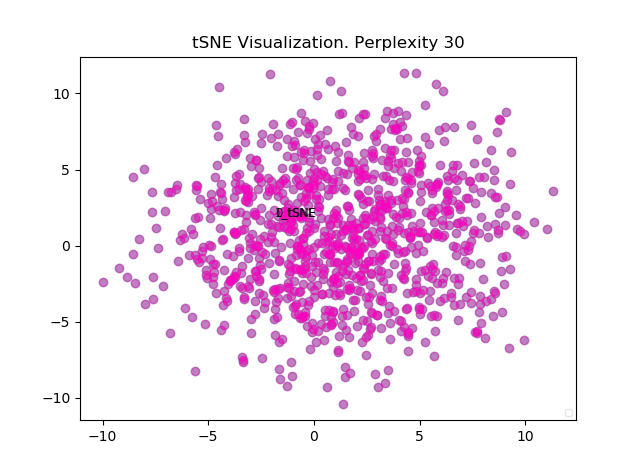
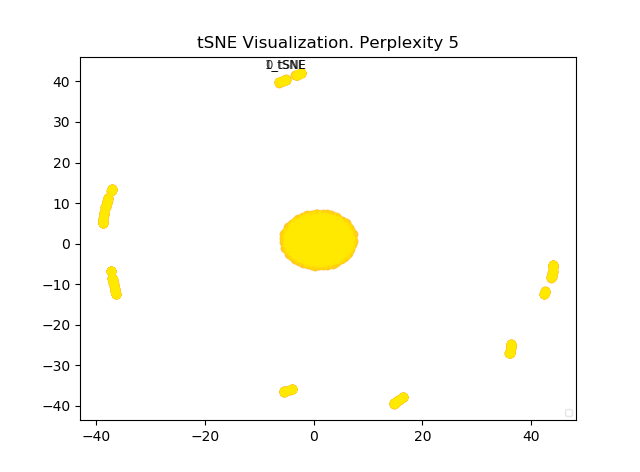
Fix TSNE issues

diff --git a/model_vis.py b/model_vis.py
@@ -13,8 +13,8 @@ import matplotlib.pyplot as plt
 from sequence_helpers import get_alignments, get_vocab, class_to_onehot, split_alignments
 from sklearn.model_selection import train_test_split
 from keras.models import model_from_json, Model
-from sklearn.manifold import TSNE
-#from MulticoreTSNE import MulticoreTSNE as TSNE
+#from sklearn.manifold import TSNE
+from MulticoreTSNE import MulticoreTSNE as TSNE
 
 word_length = 8
 vec_length = 4
@@ -198,7 +198,7 @@ conv_embds = model.layers[2].get_weights()[0]
 print(conv_embds)
 
 
-def plot_words(data, start, stop, step, num_classes, perplexity):
+def plot_words(data, perplexity):
     center_points = np.zeros([num_classes, 2])
 
     color_map_name = 'gist_rainbow'
@@ -208,7 +208,7 @@ def plot_words(data, start, stop, step, num_classes, perplexity):
     plt.hold(True)
     for cc in range(num_classes):
         # Plot each class using a different color
-        cfloat = (cc * 5 + 1.0) / num_classes
+        cfloat = (cc + 1.0) / num_classes / 5
         keep_points = np.where(plot_act_res == cc)[0]
         cur_plot = data#[start:stop:step]
 
@@ -252,7 +252,7 @@ for perplexity in perplexity_list:
                           #metric='correlation',
                           #verbose=1).fit_transform(plot_data_points)
     print('Running viz')
-    plot_words(embedding, 0, 1000, 1, perplexity)
+    plot_words(embedding, perplexity)
 
 '''
 layer_outputs = [layer.output for layer in model.layers[2:]]
